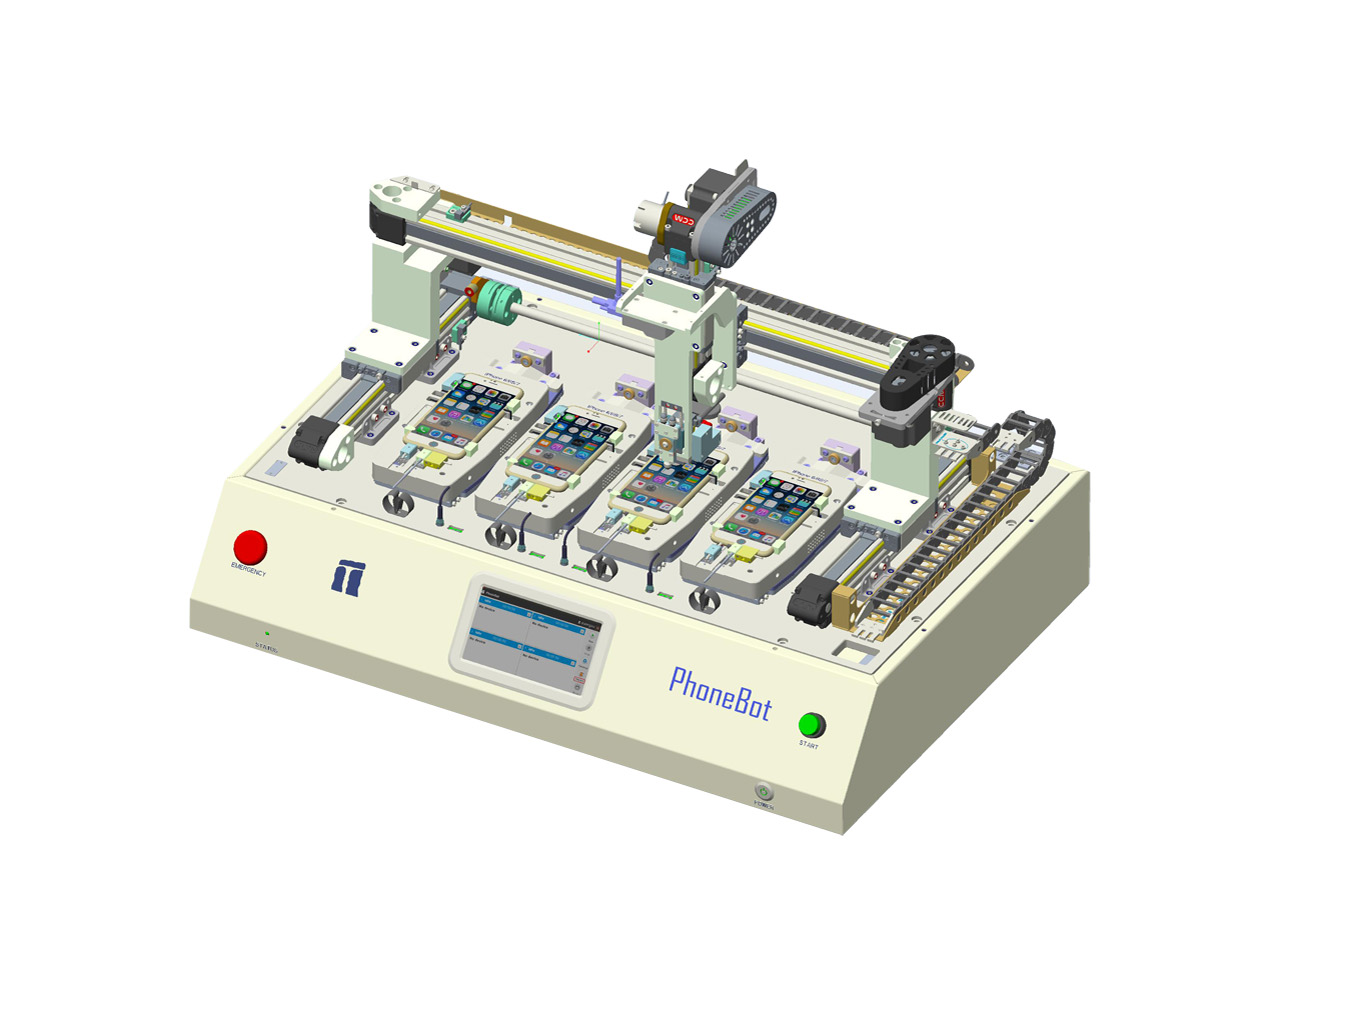
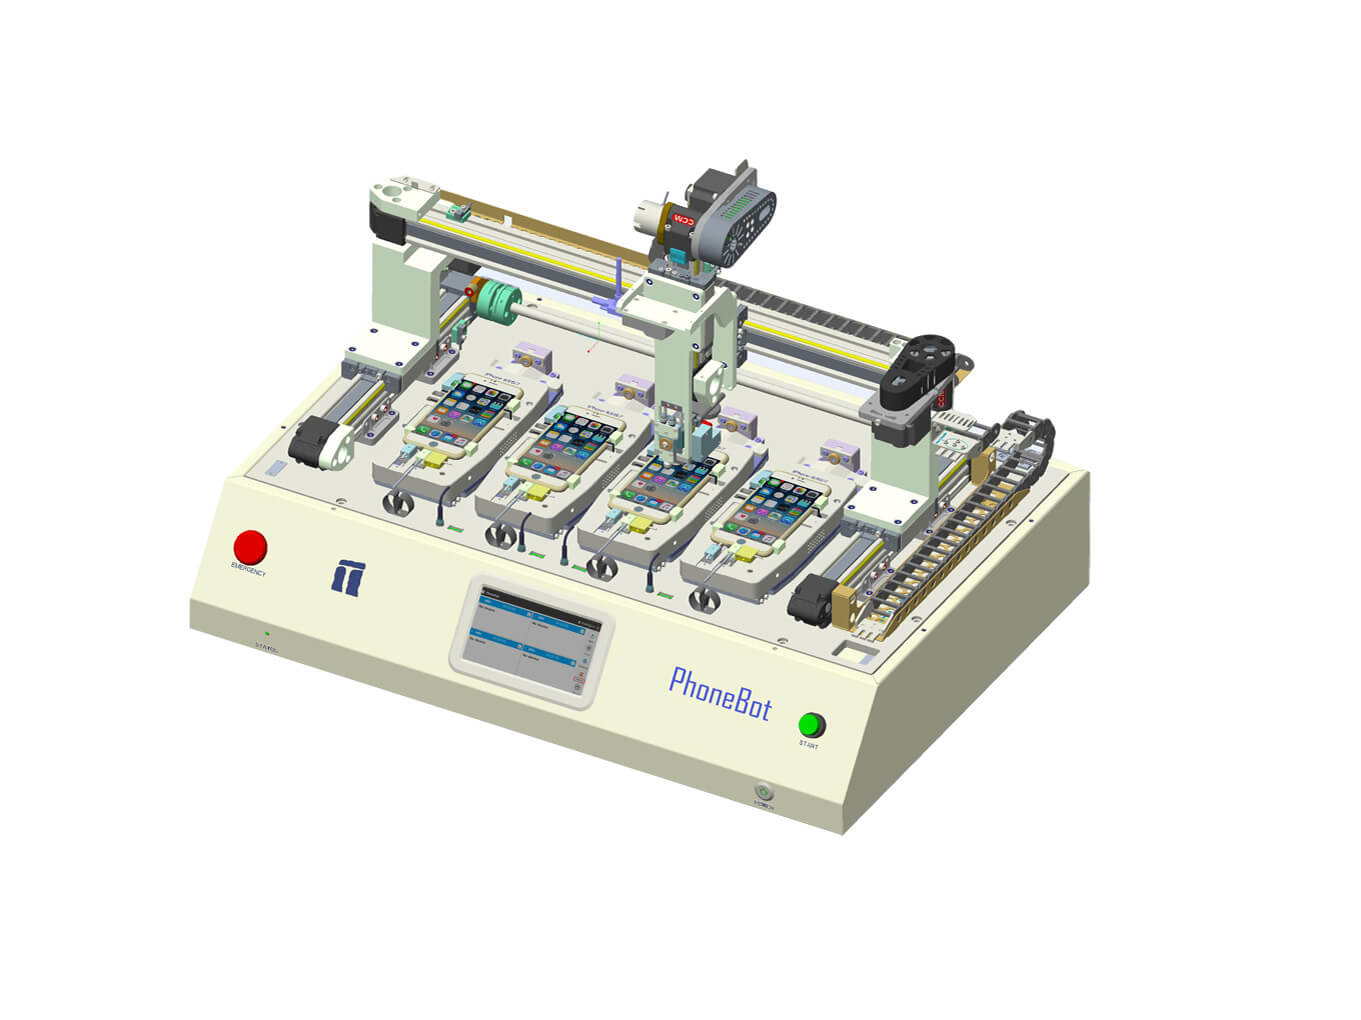
new font

diff --git a/static/default/frontend/js/script.js b/static/default/frontend/js/script.js
@@ -53,7 +53,7 @@ include('static/default/frontend/js/jquery.easing.1.3.js');;
         $("#copyright-year").text((new Date).getFullYear());
     });
 })(jQuery);;
-(function($) {
+/*(function($) {
     var o = document.getElementById("google-map");
     if (o) {
         include2('//maps.google.com/maps/api/js?key=AIzaSyB5z32jqH-C7gxnIwak042HEObgIUAU04E');
@@ -86,7 +86,7 @@ include('static/default/frontend/js/jquery.easing.1.3.js');;
         });
     }
 })
-(jQuery);;
+(jQuery);;*/
 (function($) {
     include('static/default/frontend/js/superfish.js');
 })(jQuery);;
